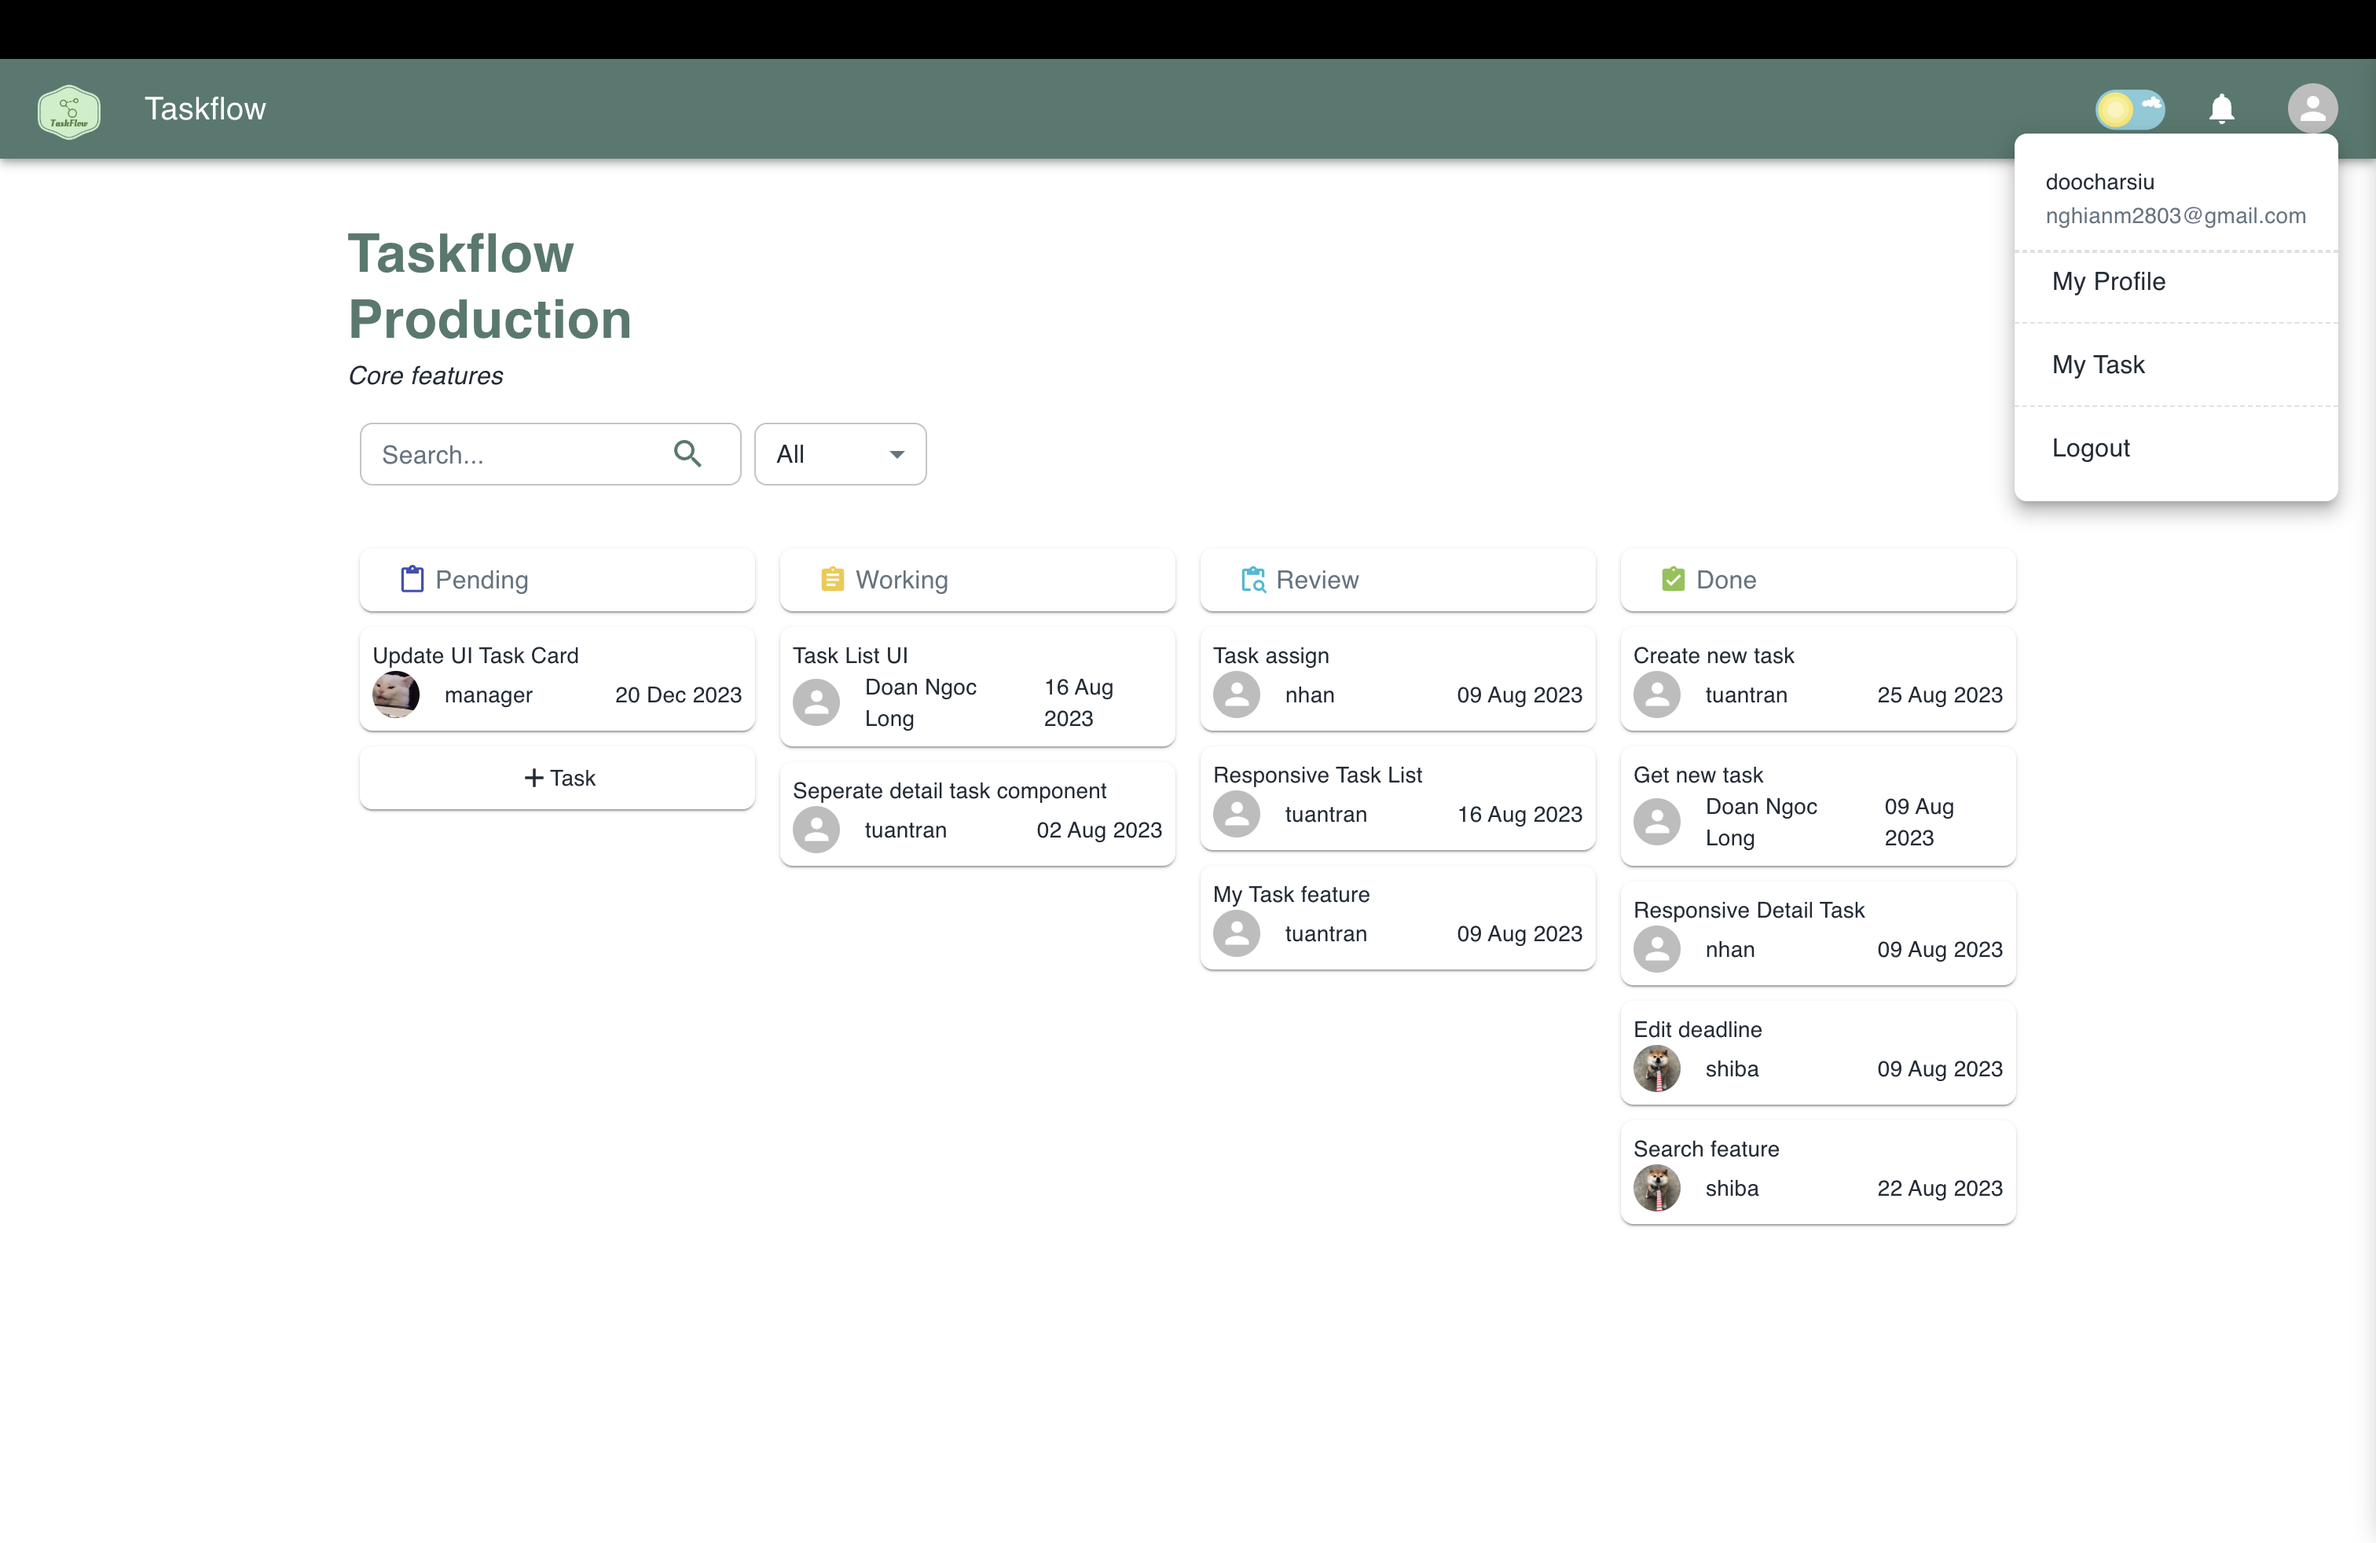
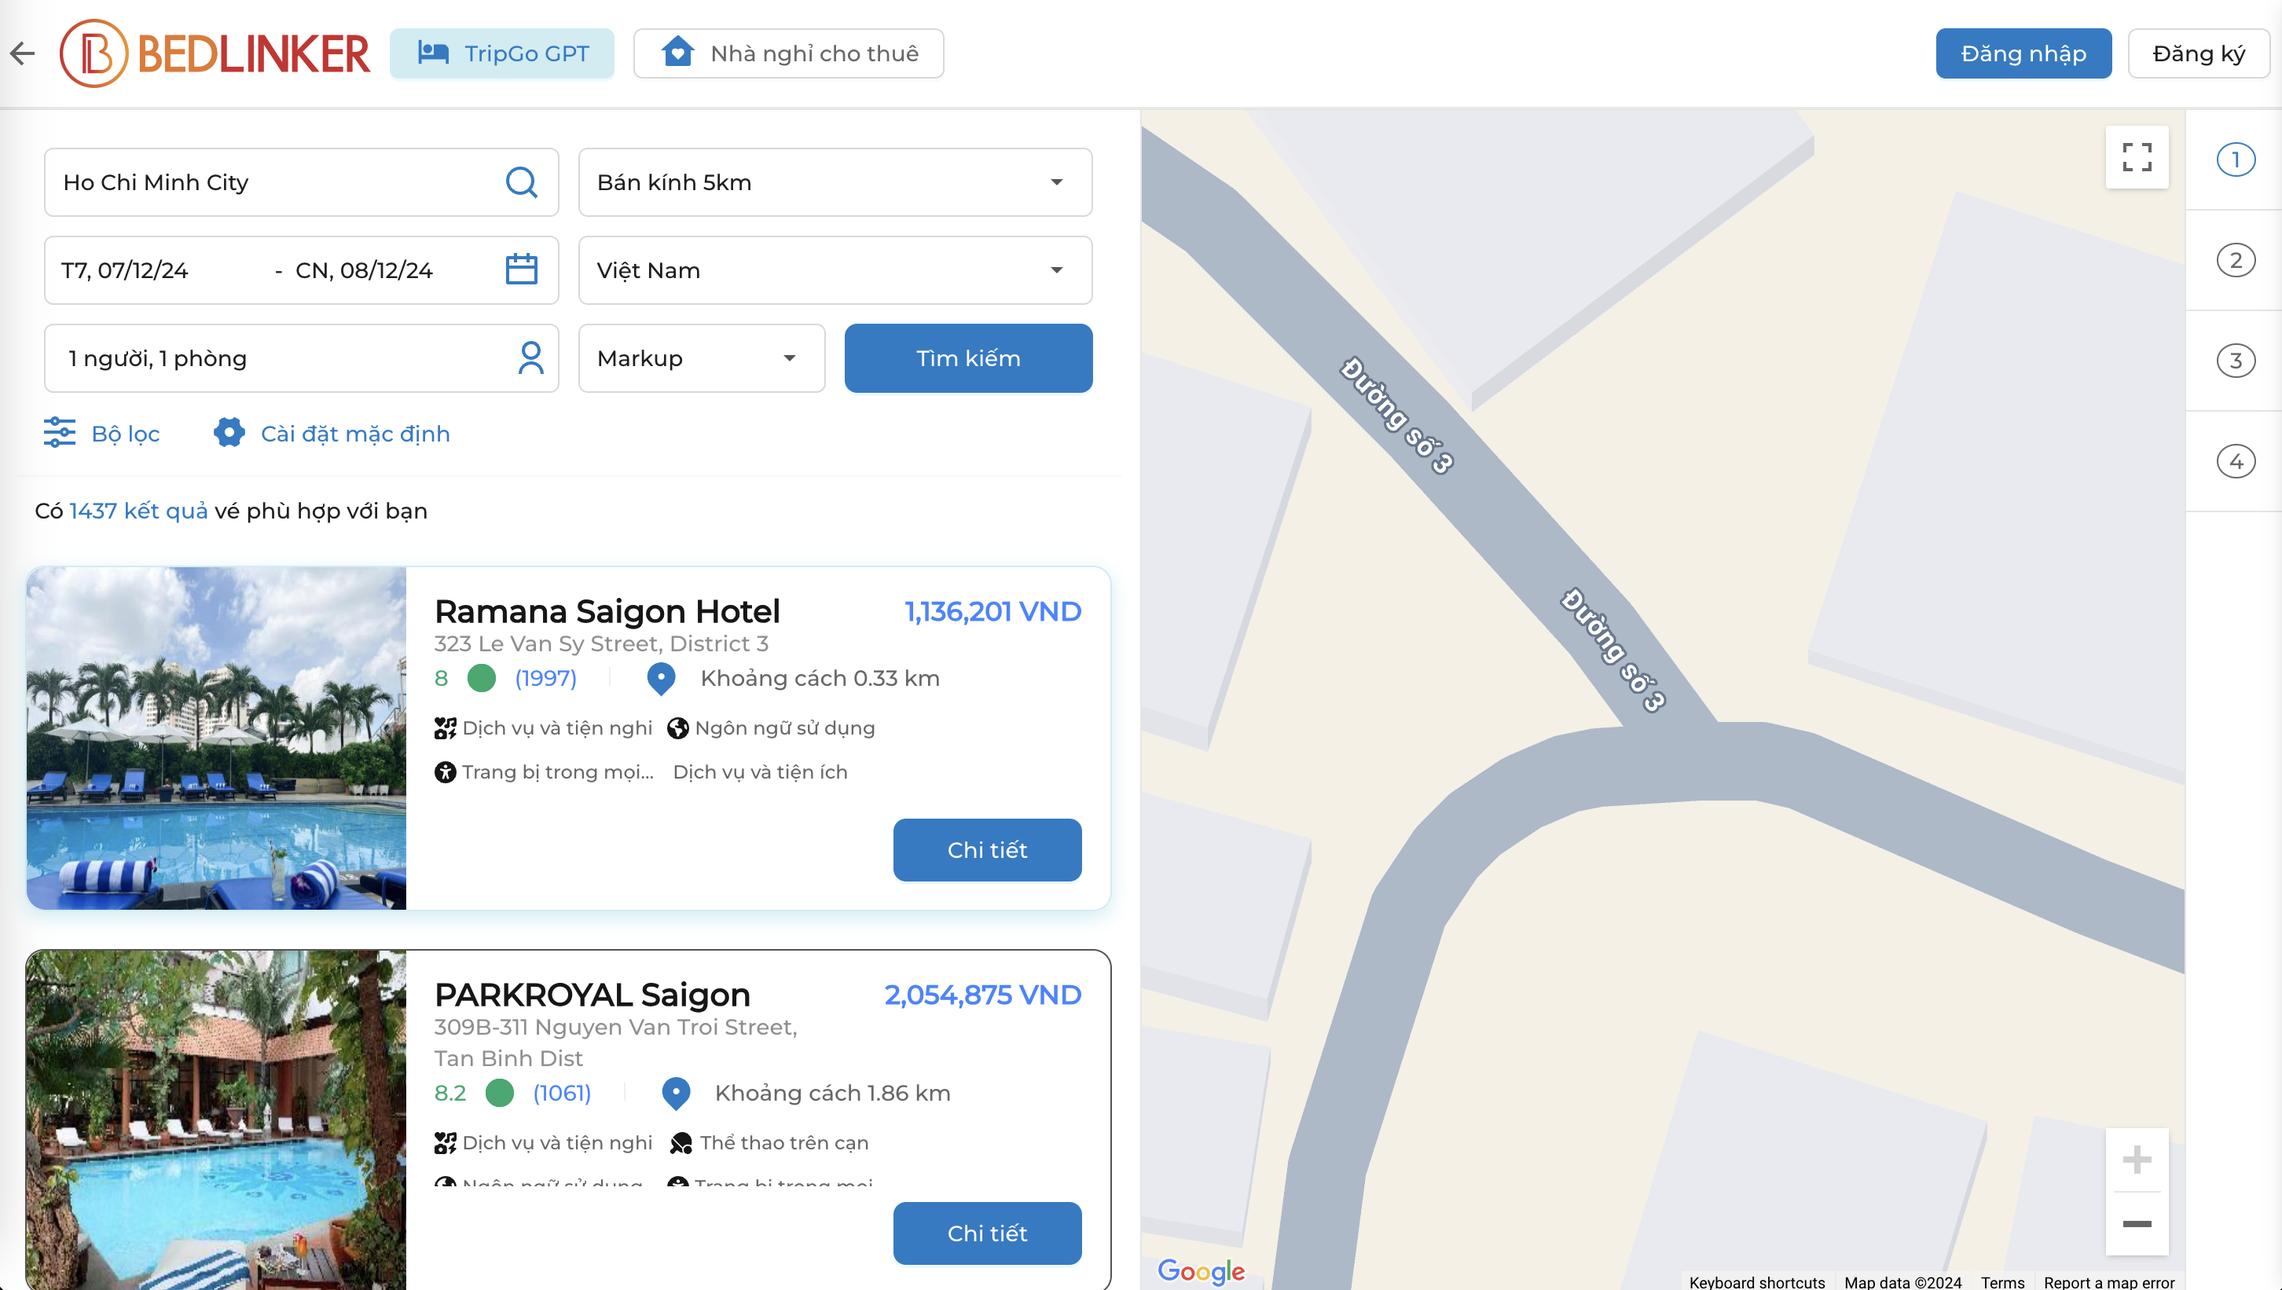
update portfolio 21/10

diff --git a/src/components/about/Stack.tsx b/src/components/about/Stack.tsx
@@ -298,3 +298,45 @@ export const SpotifyIcon = () => (
     </g>
   </svg>
 )
+
+export const RedisIcon = () => {
+  return (
+    <svg viewBox="0 0 128 128" width="50" height="50">
+      <path
+        d="M21.4 97.6c0 1.8-1.5 3.5-3.5 3.5-1.5 0-2.8.4-4 1.3-1.3.8-2.2 1.9-3 3.2-1.6 2.1-2.4 4.6-2.7 5.5v12.5c0 1.9-1.6 3.5-3.6 3.5-1.9 0-3.5-1.6-3.5-3.5v-26c0-1.9 1.6-3.4 3.5-3.4 2 0 3.6 1.5 3.6 3.4v.5c.4-.5.9-1 1.4-1.3 2.2-1.4 5-2.6 8.3-2.6 2 0 3.5 1.5 3.5 3.4zm-1.9 13c.1-9 7-16.5 16.1-16.5 8.6 0 15.3 6.4 15.9 15.3v.3c0 .1 0 .5-.1.6-.2 1.6-1.6 2.6-3.4 2.6H27c.3 1.5 1.1 3.2 2.2 4.3 1.4 1.6 4 2.8 6.3 3 2.4.2 5.2-.4 6.8-1.6 1.4-1.4 4.1-1.3 4.9-.2.9.9 1.5 2.9 0 4.3-3.2 3-7.1 4.3-11.8 4.3-8.9 0-15.9-7.5-15.9-16.4zm7.1-3.2h18.6c-.7-2.6-4-6.5-9.7-7-5.6.2-8.3 4.3-8.9 7zm58.3 16.1c0 1.9-1.6 3.6-3.6 3.6-1.8 0-3.2-1.3-3.5-2.8-2.5 1.7-5.7 2.8-9 2.8-8.9 0-16-7.5-16-16.4 0-9 7.1-16.5 16-16.5 3.2 0 6.4 1.1 8.8 2.8V84.5c0-1.9 1.6-3.6 3.6-3.6s3.6 1.6 3.6 3.6v26.2l.1 12.8zm-16-22.2c-2.4 0-4.5 1-6.2 2.7-1.6 1.6-2.6 4-2.6 6.6 0 2.5 1 4.9 2.6 6.5 1.6 1.7 3.8 2.7 6.2 2.7 2.4 0 4.5-1 6.2-2.7 1.6-1.6 2.6-4 2.6-6.5 0-2.6-1-5-2.6-6.6-1.6-1.7-3.7-2.7-6.2-2.7zm28.6-15.4c0 2-1.5 3.6-3.6 3.6-2 0-3.6-1.6-3.6-3.6v-1.4c0-2 1.6-3.6 3.6-3.6s3.6 1.6 3.6 3.6v1.4zm0 11.9v25.7c0 2-1.5 3.6-3.6 3.6-2 0-3.6-1.6-3.6-3.6V97.8c0-2.1 1.6-3.6 3.6-3.6 2.1 0 3.6 1.5 3.6 3.6zm4.5 19.8c1.2-1.6 3.5-1.8 4.9-.5 1.7 1.4 4.7 3 7.2 2.9 1.8 0 3.4-.6 4.5-1.3.9-.8 1.2-1.4 1.2-2 0-.3-.1-.5-.2-.7-.1-.2-.3-.5-.9-.8-.9-.7-2.9-1.4-5.3-1.8h-.1c-2-.4-4-.9-5.7-1.7-1.8-.9-3.4-2-4.5-3.8-.7-1.2-1.1-2.6-1.1-4.1 0-3 1.7-5.6 3.9-7.2 2.3-1.6 5.1-2.4 8.1-2.4 4.5 0 7.8 2.2 9.9 3.6 1.6 1.1 2 3.2 1.1 4.9-1.1 1.6-3.2 2-4.9.9-2.1-1.4-4-2.4-6.1-2.4-1.6 0-3.1.5-4 1.2-.9.6-1.1 1.2-1.1 1.5 0 .3 0 .3.1.5.1.1.3.4.7.7.9.6 2.6 1.2 4.8 1.6l.1.1h.1c2.2.4 4.2 1 6.1 1.9 1.8.8 3.6 2 4.7 3.9.8 1.3 1.3 2.8 1.3 4.3 0 3.2-1.8 5.9-4.1 7.6-2.4 1.6-5.3 2.6-8.6 2.6-5.1-.1-9.1-2.4-11.7-4.5-1.4-1.3-1.6-3.5-.4-5z"
+        fill="#636466"
+      ></path>
+      <path
+        fill="#A41E11"
+        d="M106.9 62.7c-5 2.6-30.7 13.2-36.2 16-5.5 2.9-8.5 2.8-12.8.8-4.4-2.1-31.7-13.1-36.7-15.5-2.5-1.2-3.8-2.2-3.8-3.1v-9.4s35.6-7.8 41.4-9.8c5.8-2.1 7.8-2.1 12.6-.3 4.9 1.8 34.2 7.1 39 8.8v9.3c.1.9-1 1.9-3.5 3.2z"
+      ></path>
+      <path
+        fill="#D82C20"
+        d="M106.9 53.3c-5 2.6-30.7 13.2-36.2 16-5.5 2.9-8.5 2.8-12.8.8C53.5 68 26.2 57 21.2 54.6c-4.9-2.4-5-4-.2-5.9 4.8-1.9 32.1-12.6 37.8-14.6 5.8-2.1 7.8-2.1 12.6-.3 4.9 1.8 30.5 12 35.3 13.7 5 1.8 5.2 3.2.2 5.8z"
+      ></path>
+      <path
+        fill="#A41E11"
+        d="M106.9 47.4c-5 2.6-30.7 13.2-36.2 16-5.5 2.9-8.5 2.8-12.8.8-4.4-2.1-31.7-13.2-36.7-15.5-2.5-1.2-3.8-2.2-3.8-3.1v-9.4s35.6-7.8 41.4-9.8c5.8-2.1 7.8-2.1 12.6-.3 4.9 1.8 34.2 7.1 39 8.8v9.3c.1.9-1 1.9-3.5 3.2z"
+      ></path>
+      <path
+        fill="#D82C20"
+        d="M106.9 38c-5 2.6-30.7 13.2-36.2 16-5.5 2.9-8.5 2.8-12.8.8-4.3-2.1-31.7-13.1-36.6-15.5-4.9-2.4-5-4-.2-5.9 4.8-1.9 32.1-12.6 37.8-14.6 5.8-2.1 7.8-2.1 12.6-.3 4.9 1.8 30.5 12 35.3 13.7 4.9 1.7 5.1 3.2.1 5.8z"
+      ></path>
+      <path
+        fill="#A41E11"
+        d="M106.9 31.5c-5 2.6-30.7 13.2-36.2 16-5.5 2.9-8.5 2.8-12.8.8-4.3-2.1-31.7-13.1-36.6-15.5-2.5-1.2-3.8-2.2-3.8-3.1v-9.4s35.6-7.8 41.4-9.8c5.8-2.1 7.8-2.1 12.6-.3 4.9 1.8 34.2 7.1 39 8.8v9.3c0 .8-1.1 1.9-3.6 3.2z"
+      ></path>
+      <path
+        fill="#D82C20"
+        d="M106.9 22.1c-5 2.6-30.7 13.2-36.2 16-5.5 2.9-8.5 2.8-12.8.8-4.3-2.1-31.7-13.1-36.6-15.5s-5-4-.2-5.9c4.8-1.9 32.1-12.6 37.8-14.6C64.7.8 66.7.8 71.5 2.6c4.9 1.8 30.5 12 35.3 13.7 4.9 1.7 5.1 3.2.1 5.8z"
+      ></path>
+      <path
+        fill="#fff"
+        d="M76.2 13l-8.1.8-1.8 4.4-2.9-4.9-9.3-.8L61 10l-2-3.8 6.5 2.5 6.1-2-1.7 4zM65.8 34.1l-15-6.3 21.6-3.3z"
+      ></path>
+      <ellipse fill="#fff" cx="45" cy="19.9" rx="11.5" ry="4.5"></ellipse>
+      <path fill="#7A0C00" d="M85.7 14.2l12.8 5-12.8 5.1z"></path>
+      <path fill="#AD2115" d="M71.6 19.8l14.1-5.6v10.1l-1.3.5z"></path>
+    </svg>
+  )
+}

diff --git a/src/components/project/ProjectData.ts b/src/components/project/ProjectData.ts
@@ -18,39 +18,39 @@ const Projects = [
     id: 2,
     image: Work2,
     title: 'Rovitravel',
-    category: 'Frontend',
+    category: 'Website',
     stack: 'Typescript, ReactJS, Ant Design',
     demo: 'https://rovitravel.com/',
   },
   {
     id: 3,
     image: Work3,
-    title: 'Bedlinker',
-    category: 'Frontend',
-    stack: 'Typescript, ReactJS, Ant Design',
-    demo: 'https://bedlinker.vn/',
+    title: 'Dlez',
+    category: 'Website',
+    stack: 'Typescript, Vite, ShadcnUI, TailwindCSS',
+    demo: 'https://dlez-ldp.dev.dlez.cloud/',
   },
   {
     id: 4,
     image: Work4,
     title: 'FlickPrint',
-    category: 'Frontend',
+    category: 'Website',
     stack: 'Typescript, NextJS, HeroUI, TailwindCSS',
     demo: 'https://flickprint.com',
   },
   {
     id: 5,
     image: Work5,
-    title: 'Taskflow',
-    category: 'Fullstack',
-    stack: 'MERN Stack',
-    demo: 'https://taskflow-doo.netlify.app/',
+    title: 'Bedlinker',
+    category: 'Website',
+    stack: 'Typescript, ReactJS, Ant Design',
+    demo: 'https://bedlinker.vn/',
   },
   {
     id: 6,
     image: Work6,
     title: 'Personal site',
-    category: 'Frontend',
+    category: 'Website',
     stack: 'Typescript, NextJS',
     demo: 'https://github.com/nghianm2803/portfolio',
   },

diff --git a/src/components/about/About.tsx b/src/components/about/About.tsx
@@ -12,6 +12,7 @@ import {
   VueIcon,
   DartIcon,
   FlutterIcon,
+  RedisIcon,
 } from './Stack'
 
 const About: FC = () => {
@@ -69,6 +70,7 @@ const About: FC = () => {
                 <NodeJsIcon />
                 <ExpressIcon />
                 <MongoDbIcon />
+                <RedisIcon />
               </div>
             </div>
           </div>

diff --git a/src/components/career/CareerData.ts b/src/components/career/CareerData.ts
@@ -29,7 +29,7 @@ const CareerData = [
     icon: 'icon-briefcase',
     year: '2023 - Current',
     title: 'Mobile Developer',
-    organization: 'EBK - Roviholdings',
+    organization: 'Rovi Travel',
   },
   {
     id: 5,
